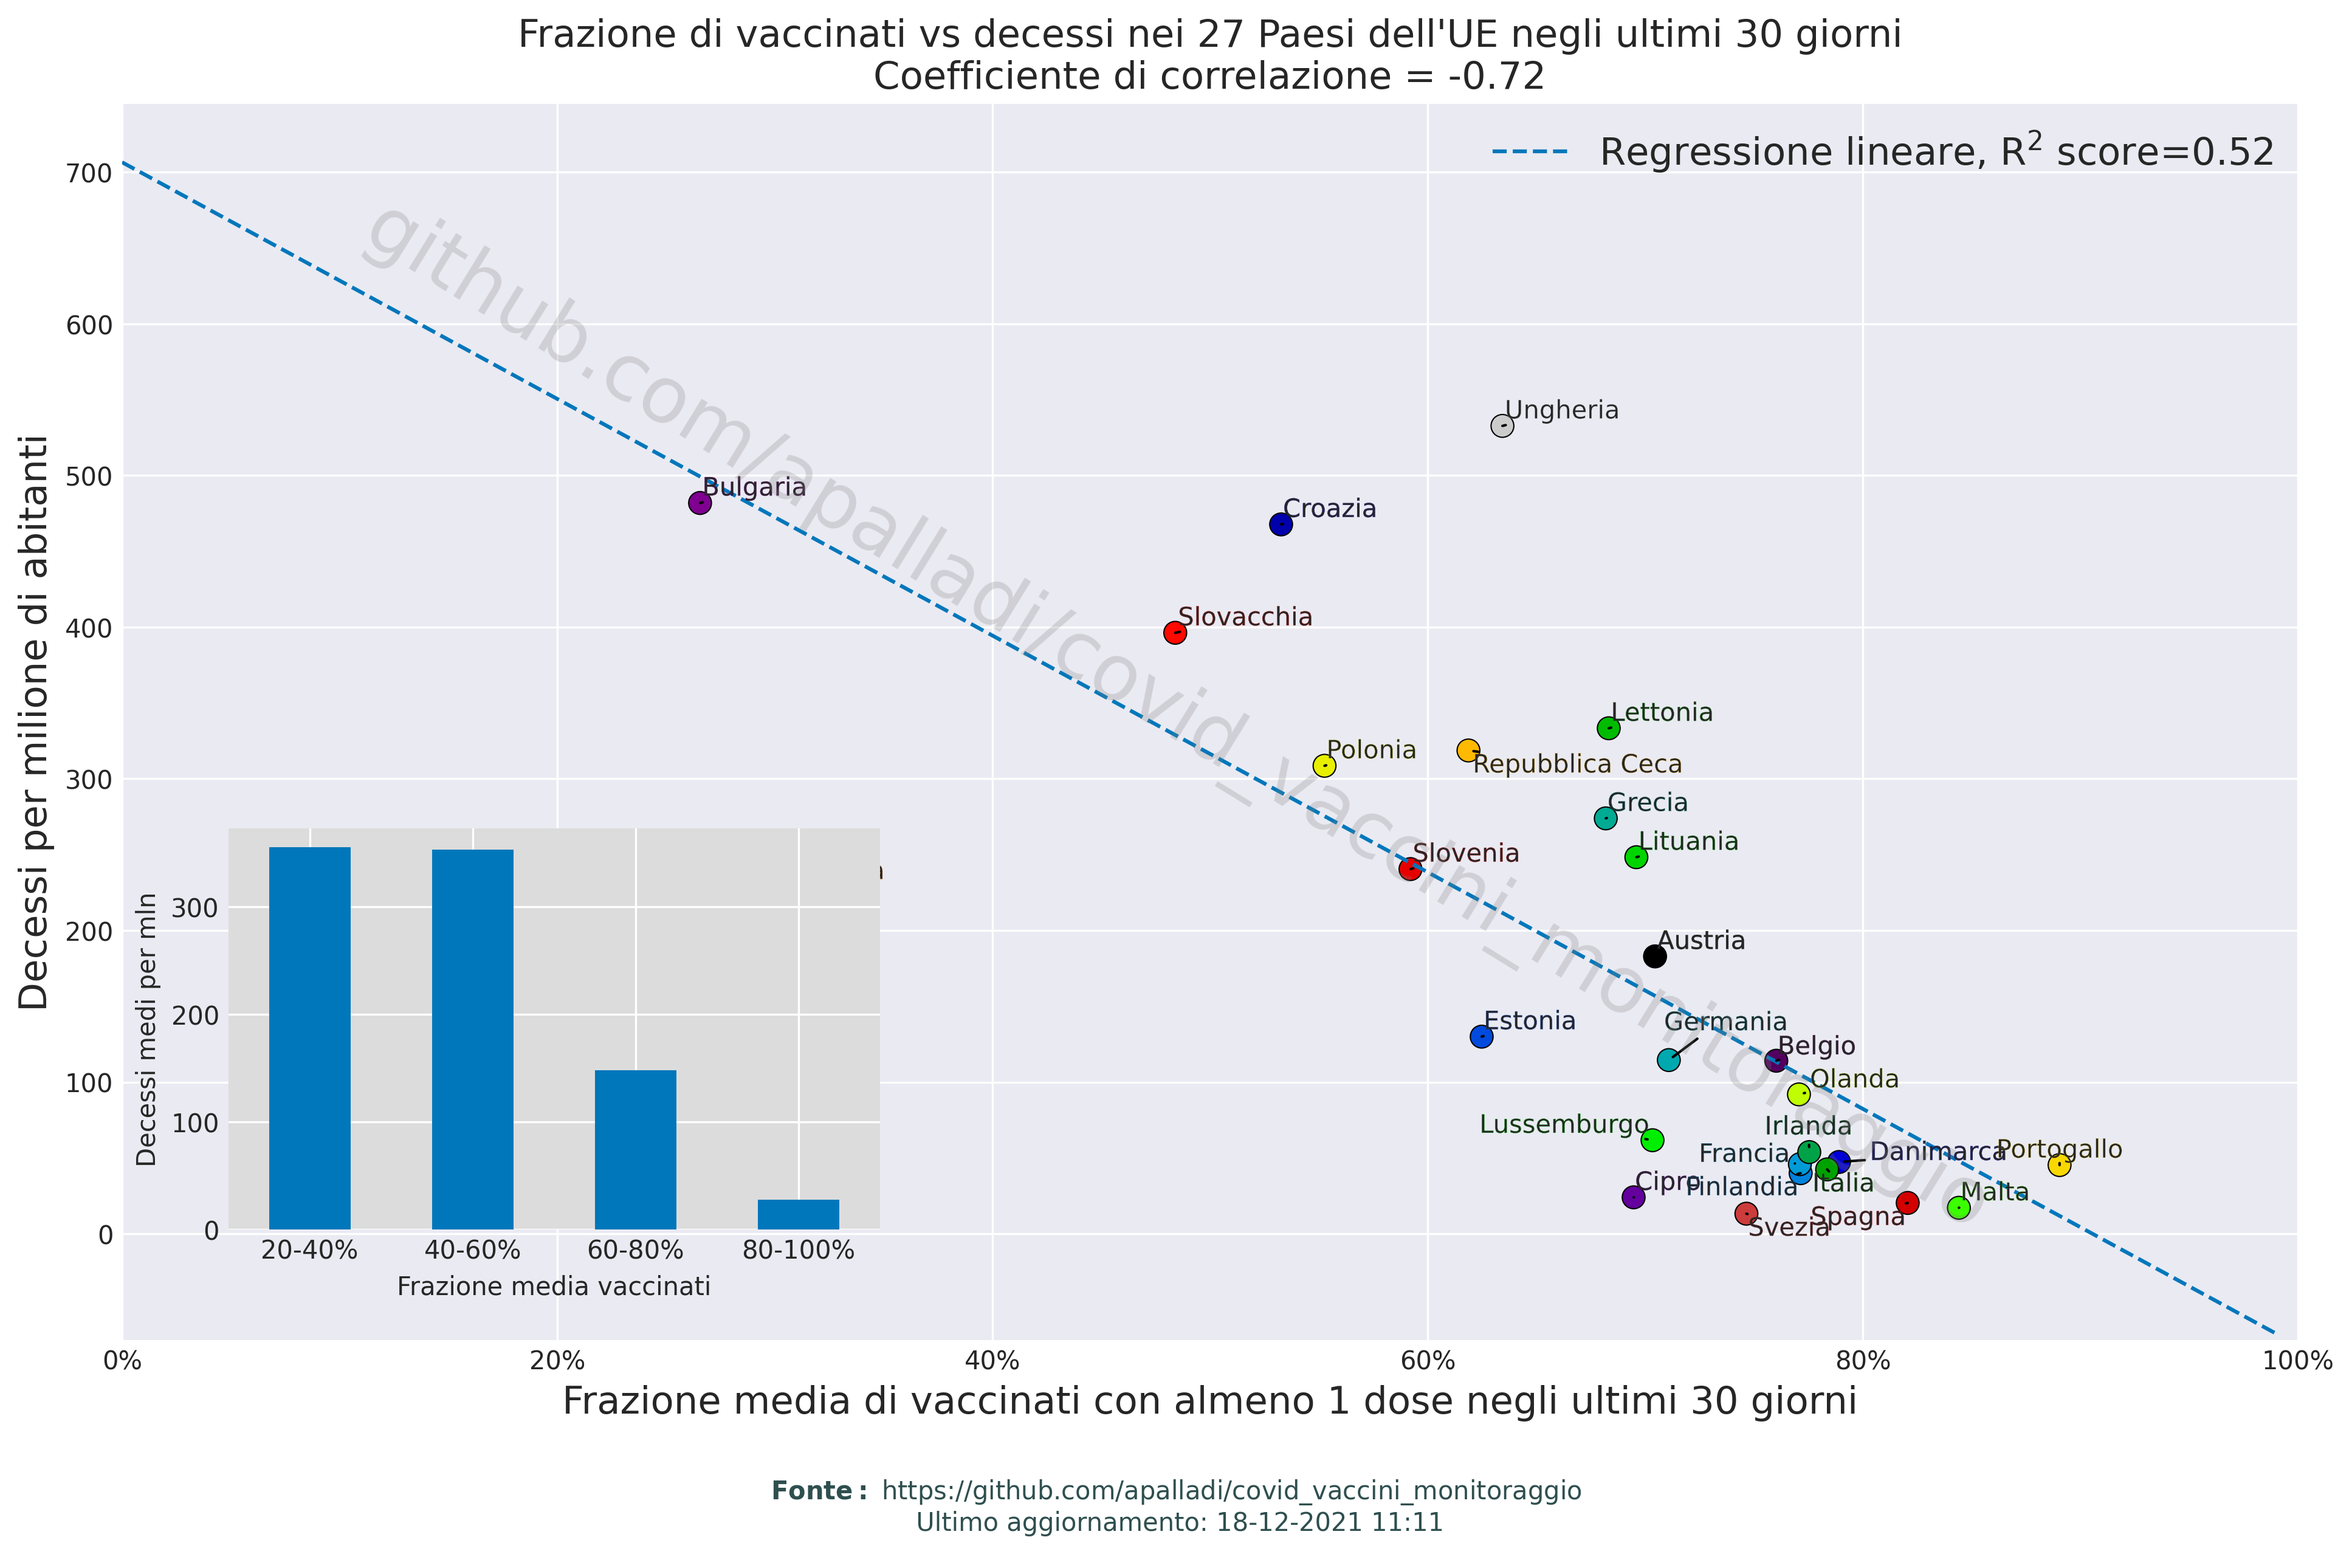
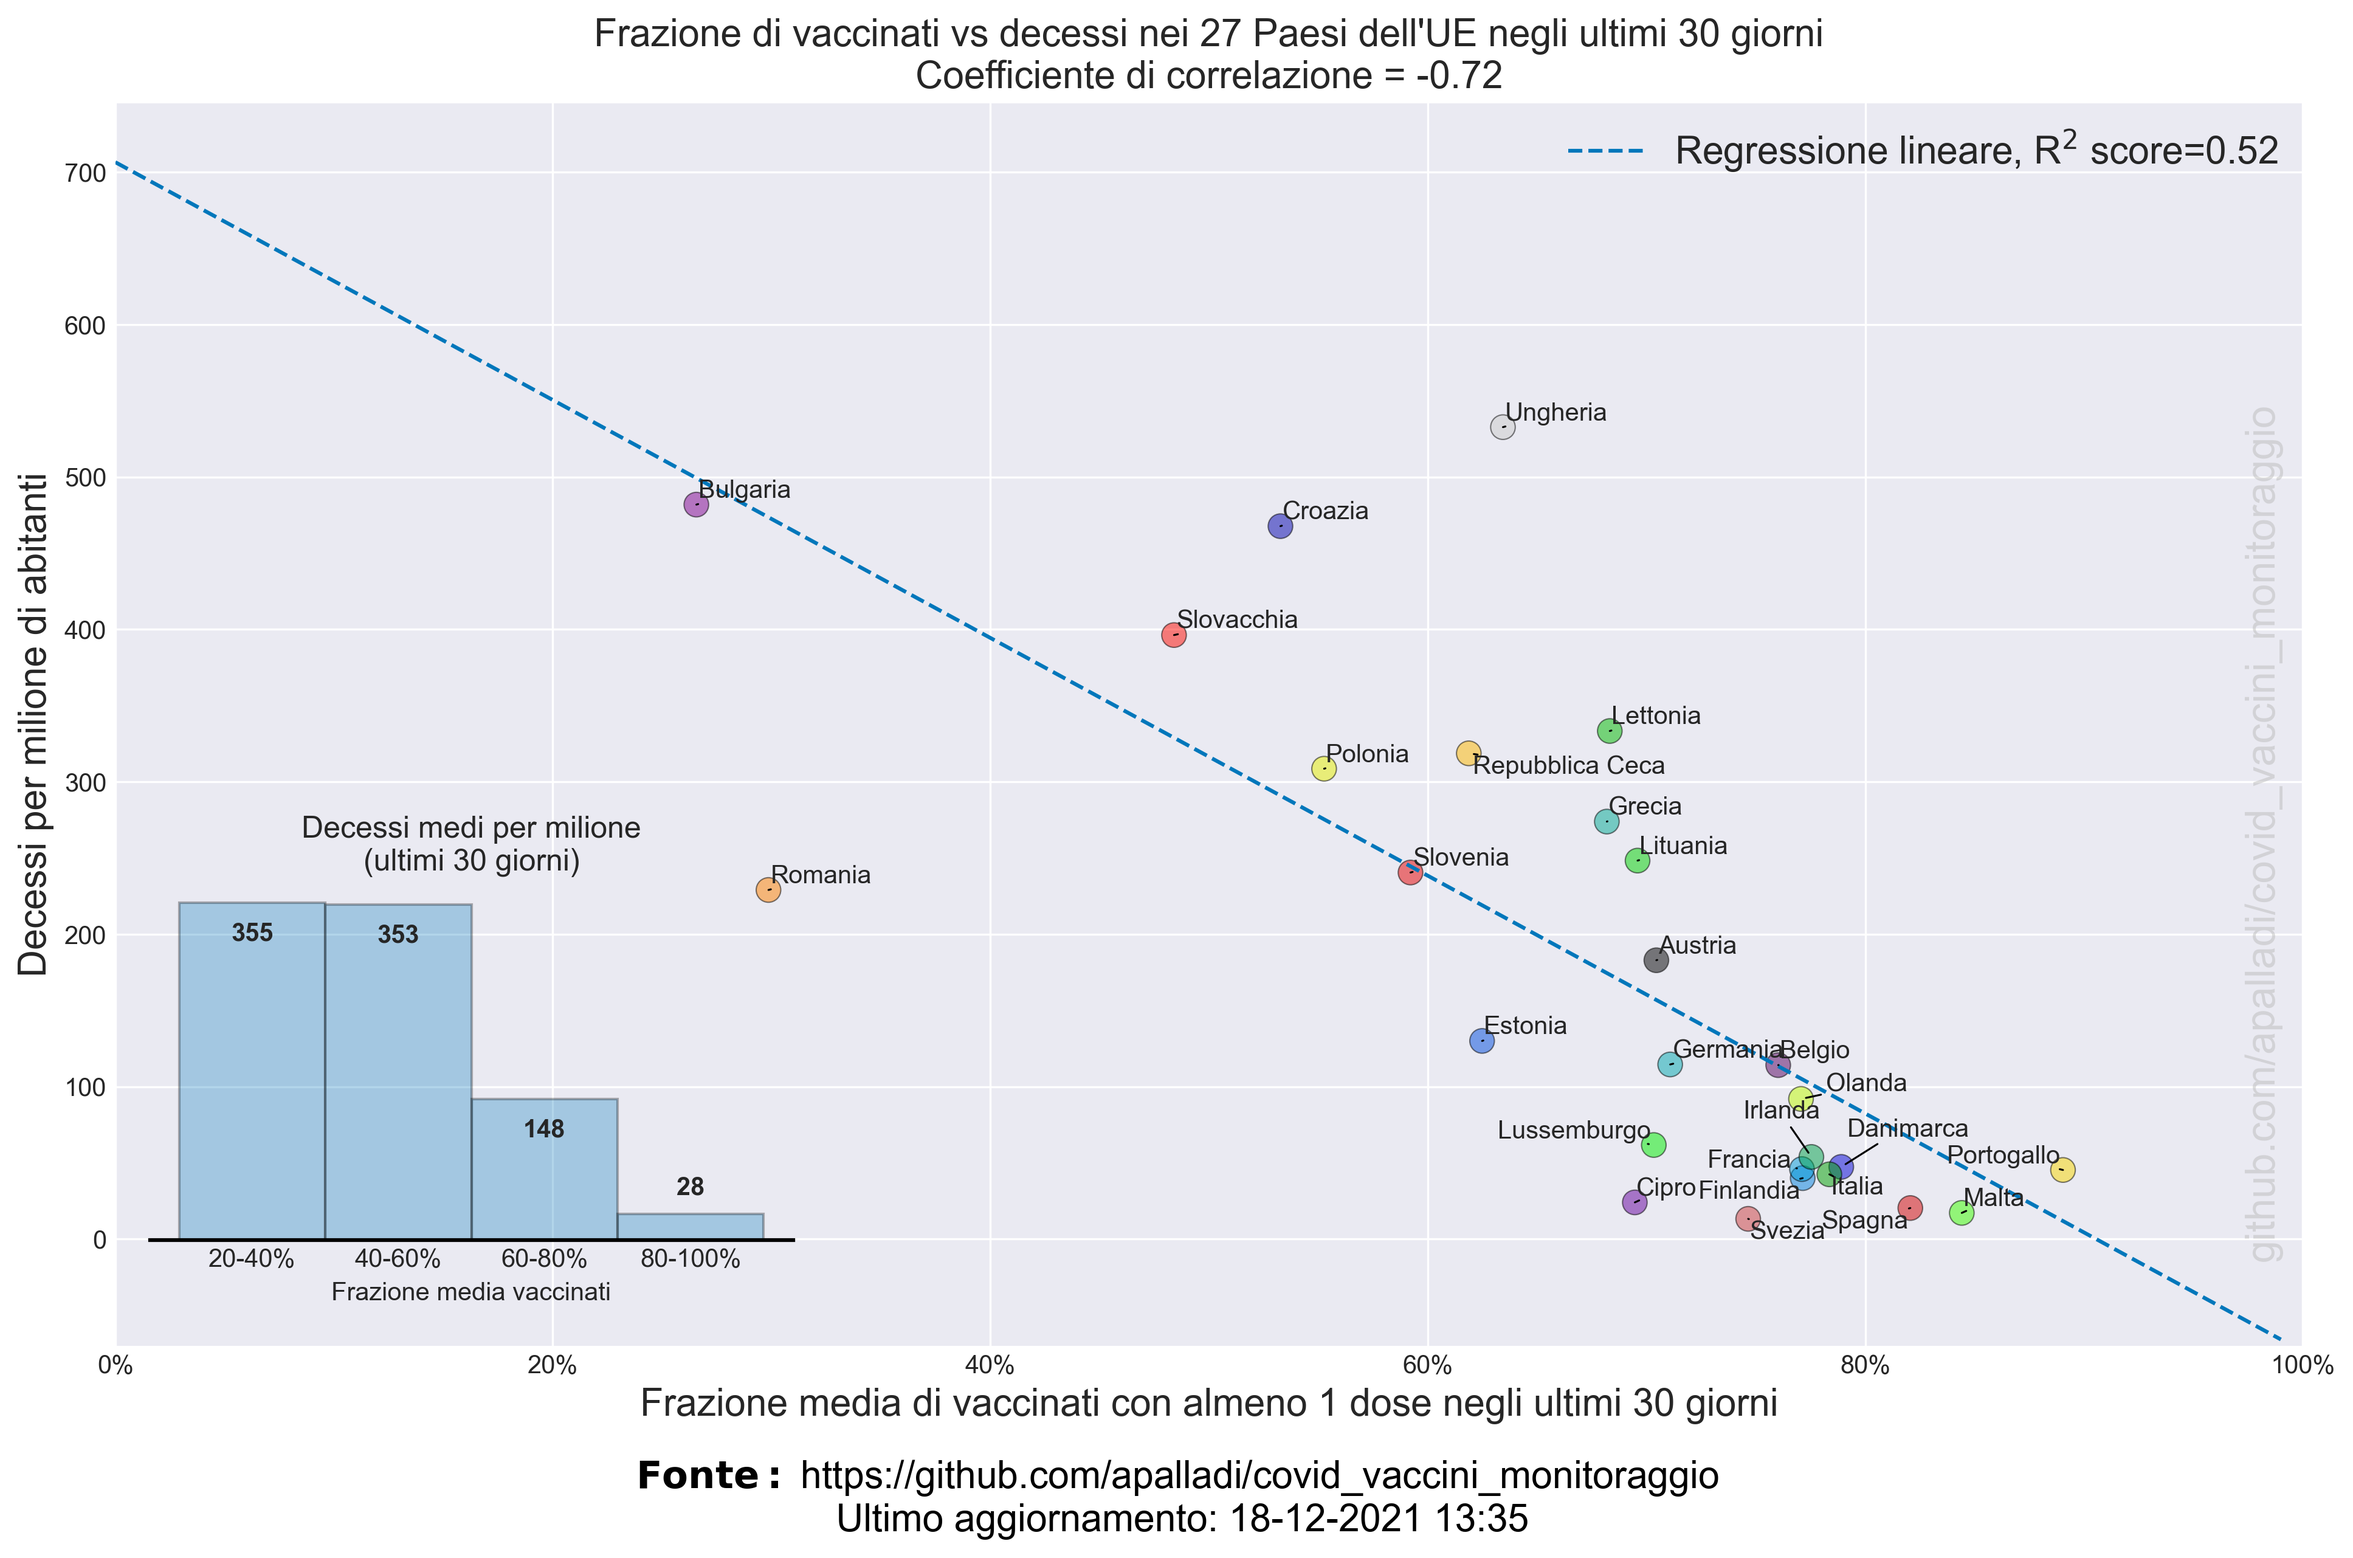
Migliora grafico correlazione vaccini e decessi EU

diff --git a/scripts/confronti_europei.py b/scripts/confronti_europei.py
@@ -4,15 +4,15 @@ import locale
 from os import chdir, path
 
 import matplotlib as mpl
-import matplotlib.patheffects as path_effects
 import matplotlib.pyplot as plt
 import numpy as np
 import pandas as pd
 from adjustText import adjust_text
+from mpl_toolkits.axes_grid1.inset_locator import inset_axes
 from sklearn.metrics import r2_score
 
 from custom.plots import apply_plot_treatment, get_xticks_labels, palette
-from custom.watermarks import add_watermark
+from custom.watermarks import add_last_updated, add_watermark
 
 paesi_abitanti_eu = {"Austria": 8.917, "Belgium": 11.56, "Bulgaria": 6.927,
                      "Cyprus": 1.207, "Croatia": 4.047, "Denmark": 5.831,
@@ -268,21 +268,20 @@ def plot_correlazione_vaccini_decessi(vacc_res_2021, dec_res_2021, x_grid, y_gri
     # scatter plot
     # genera lista di colori e dimensioni
     colors = plt.cm.nipy_spectral(np.linspace(0, 1, len(paesi_eu_ita)))
-    sizes = 3*len(paesi_eu_ita)
+    volume = 3.5*len(paesi_eu_ita)
 
-    plt.scatter(vacc_res_2021, dec_res_2021, c=colors,
-                edgecolor="black", linewidth=0.5, s=sizes)
+    plt.scatter(vacc_res_2021, dec_res_2021, c=colors, alpha=0.50,
+                edgecolor="black", linewidth=0.5, s=volume)
 
     texts = [plt.text(vacc_res_2021[i],
              dec_res_2021[i],
-             paesi_eu_ita[i],
-             path_effects=[path_effects.Stroke(linewidth=0.075, foreground=colors[i])])
+             paesi_eu_ita[i])
              for i in range(len(paesi_eu_ita))]
 
     # fix text overlap
     adjust_text(texts,
-                expand_text=(1.15, 1.30),
-                arrowprops=dict(arrowstyle="-", lw=1))
+                expand_text=(1.20, 1.35),
+                arrowprops=dict(arrowstyle="-", linewidth=.75))
 
     # fit plot
     plt.plot(x_grid, y_grid, linestyle="--", c=palette[1], label=f"Regressione lineare, R$^2$ score={score}")
@@ -301,19 +300,36 @@ def plot_correlazione_vaccini_decessi(vacc_res_2021, dec_res_2021, x_grid, y_gri
     plt.tight_layout()
 
     # bar plot
+    ax = plt.gca()
     df_grouped = group_vaccinated(vacc_res_2021, dec_res_2021)
-    a = plt.axes([.10, .15, .275, .275], facecolor="gainsboro")
 
-    df_grouped.plot(kind="bar", color=palette[1], ax=a)
-    plt.xticks(rotation=0)
-    plt.grid()
-    plt.xlabel(f"Frazione media vaccinati")
-    plt.ylabel("Decessi medi per mln")
-    # plt.title("Frazione di vaccinati vs decessi nei 27 Paesi dell'UE negli ultimi "+str(window)+" giorni")
+    ax_bar = inset_axes(ax, "30%", "30%",
+                        loc="lower left",
+                        bbox_to_anchor=(0.01, 0.075, 0.98, 0.95),
+                        bbox_transform=ax.transAxes)
+    ax_bar.set_facecolor((0, 0, 0, 0))
+    ax_bar.bar(df_grouped.index, df_grouped, width=1,
+               edgecolor="black", color=palette[1], alpha=0.30)
+    for index, data in enumerate(df_grouped):
+        plt.text(x=index, y=data-40 if data > 100 else data+20,
+                 ha="center", s=round(data), fontdict=dict(fontweight="bold"))
+
+    ax_bar.xaxis.set_tick_params(rotation=0)
+    ax_bar.set_title(f"Decessi medi per milione\n(ultimi {window} giorni)")
+    ax_bar.set_xlabel("Frazione media vaccinati")
+    ax_bar.set_yticks([])
+    ax_bar.spines["bottom"].set_linewidth(1.5)
+    ax_bar.spines["bottom"].set_color("black")
 
     # Add watermarks
-    ax = plt.gca()
-    add_watermark(fig, ax.xaxis.label.get_fontsize())
+    fig.text(0.95, 0.425,
+             "github.com/apalladi/covid_vaccini_monitoraggio",
+             fontsize=16,
+             alpha=0.50,
+             color=palette[-1],
+             va="center",
+             rotation="vertical")
+    add_last_updated(fig, ax.xaxis.label.get_fontsize())
 
     plt.savefig("../risultati/vaccini_decessi_EU.png",
                 dpi=300,

diff --git a/scripts/custom/watermarks.py b/scripts/custom/watermarks.py
@@ -5,6 +5,8 @@ import numpy as np
 from matplotlib.font_manager import FontProperties, findfont
 from PIL import ImageFont
 
+from custom.plots import palette
+
 
 def watermark_specs(figure, watermark):
     # Get the default Matplotlib font
@@ -43,13 +45,17 @@ def add_watermark(figure, axis_font_size):
                 0.5,
                 watermark,
                 fontsize=fontsize,
-                color="gray",
-                alpha=0.25,
+                color=palette[-1],
+                alpha=0.50,
                 ha="center",
                 va="center",
                 rotation=angle,
                 zorder=0)
 
+    add_last_updated(figure, axis_font_size)
+
+
+def add_last_updated(figure, axis_font_size):
     # explicit link and last update date at the bottom
     last_update = datetime.today().strftime("%d-%m-%Y %H:%M")
     watermark_btm = r"$\bf{Fonte:}$ "
@@ -59,6 +65,6 @@ def add_watermark(figure, axis_font_size):
                 -0.06,
                 watermark_btm,
                 fontsize=axis_font_size,
-                color="darkslategray",
+                color="black",
                 ha="center",
                 va="bottom")
